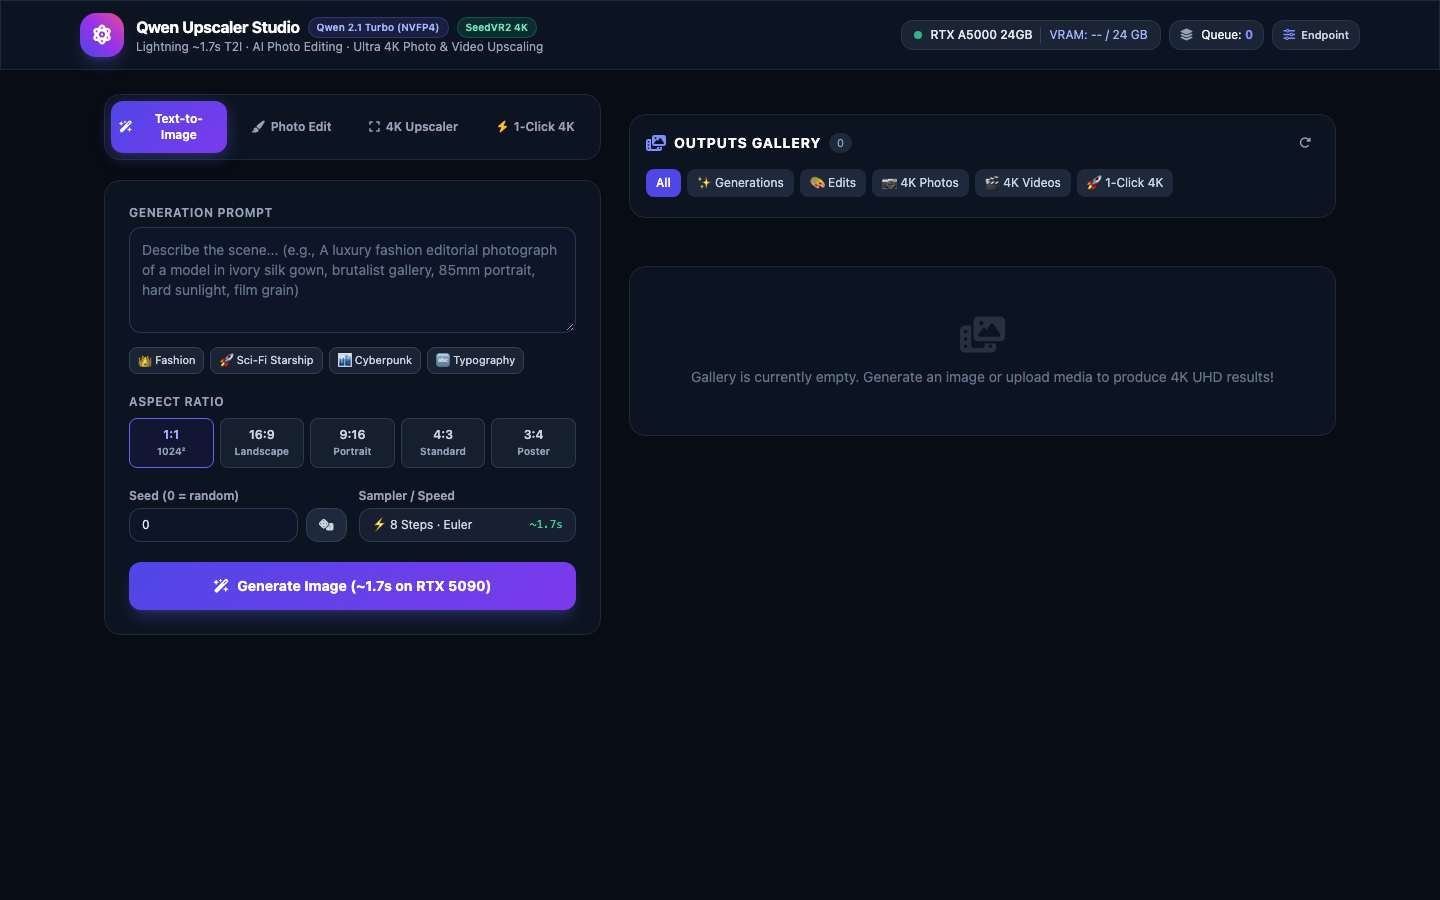
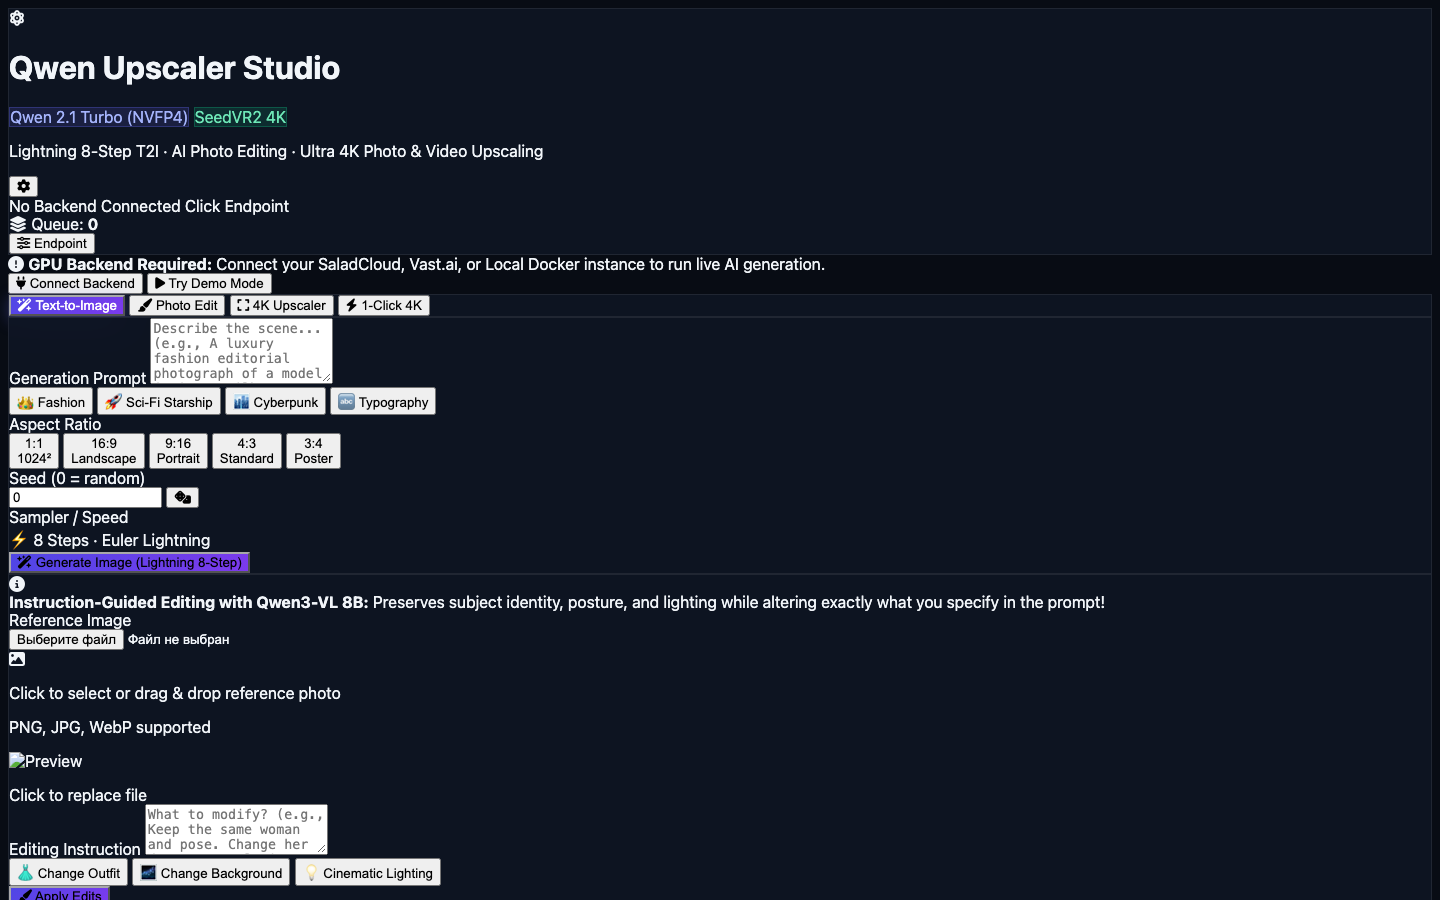
fix: update screenshots with full CSS styling, add demo mode and backend warning, remove 5090 hardcode

diff --git a/salad_app/static/index.html b/salad_app/static/index.html
@@ -42,7 +42,7 @@
               <span class="badge-qwen text-[10px] font-semibold px-2 py-0.5 rounded-full">Qwen 2.1 Turbo (NVFP4)</span>
               <span class="badge-seed text-[10px] font-semibold px-2 py-0.5 rounded-full">SeedVR2 4K</span>
             </div>
-            <p class="text-[11px] sm:text-xs text-slate-400">Lightning ~1.7s T2I · AI Photo Editing · Ultra 4K Photo & Video Upscaling</p>
+            <p class="text-[11px] sm:text-xs text-slate-400">Lightning 8-Step T2I · AI Photo Editing · Ultra 4K Photo & Video Upscaling</p>
           </div>
         </div>
 
@@ -55,9 +55,9 @@
       <!-- GPU Telemetry & Backend Switcher -->
       <div class="flex items-center justify-between sm:justify-end gap-2 text-xs">
         <div id="gpuBadge" class="flex items-center gap-2 bg-slate-800/80 px-3 py-1.5 rounded-xl border border-slate-700/60">
-          <span class="w-2 h-2 rounded-full bg-emerald-400 animate-pulse"></span>
-          <span id="gpuName" class="font-medium text-slate-200">RTX A5000 24GB</span>
-          <span id="gpuVram" class="text-indigo-300 border-l border-slate-700 pl-2">VRAM: -- / 24 GB</span>
+          <span id="gpuStatusDot" class="w-2 h-2 rounded-full bg-amber-400 animate-pulse"></span>
+          <span id="gpuName" class="font-medium text-slate-300">Checking Endpoint...</span>
+          <span id="gpuVram" class="text-indigo-300 border-l border-slate-700 pl-2">VRAM: --</span>
         </div>
         <div class="flex items-center gap-2 bg-slate-800/80 px-2.5 py-1.5 rounded-xl border border-slate-700/60">
           <i class="fa-solid fa-layer-group text-slate-400"></i>
@@ -72,6 +72,24 @@
 
     </div>
   </header>
+
+  <!-- Notice Banner When No GPU Backend Connected -->
+  <div id="backendBanner" class="hidden bg-indigo-950/80 border-b border-indigo-500/30 px-4 py-2.5 text-xs text-indigo-200">
+    <div class="max-w-7xl mx-auto flex flex-col sm:flex-row items-center justify-between gap-2.5">
+      <div class="flex items-center gap-2 text-center sm:text-left">
+        <i class="fa-solid fa-circle-exclamation text-amber-400 text-sm"></i>
+        <span><strong>GPU Backend Required:</strong> Connect your SaladCloud, Vast.ai, or Local Docker instance to run live AI generation.</span>
+      </div>
+      <div class="flex items-center gap-2 flex-shrink-0">
+        <button onclick="openSettingsModal('Connect your SaladCloud, Vast.ai, or Local Docker endpoint to enable GPU generation.')" class="px-3 py-1.5 bg-indigo-600 hover:bg-indigo-500 text-white rounded-lg font-semibold text-xs transition flex items-center gap-1.5">
+          <i class="fa-solid fa-plug text-[11px]"></i> Connect Backend
+        </button>
+        <button onclick="enableDemoMode()" class="px-3 py-1.5 bg-slate-800 hover:bg-slate-700 text-slate-300 rounded-lg text-xs transition flex items-center gap-1.5" title="Preview UI with mock sample outputs">
+          <i class="fa-solid fa-play text-amber-400 text-[11px]"></i> Try Demo Mode
+        </button>
+      </div>
+    </div>
+  </div>
 
   <!-- Main Workspace -->
   <main class="flex-1 max-w-7xl w-full mx-auto p-4 sm:p-6 grid grid-cols-1 lg:grid-cols-12 gap-5 sm:gap-7">
@@ -151,14 +169,14 @@
             <label class="block text-xs font-semibold text-slate-400 mb-1">Sampler / Speed</label>
             <div class="text-xs bg-slate-800/60 border border-slate-700/80 rounded-xl px-3 py-2 text-slate-300 flex items-center justify-between">
               <span>⚡ 8 Steps · Euler</span>
-              <span class="text-emerald-400 font-mono text-[11px]">~1.7s</span>
+              <span class="text-emerald-400 font-mono text-[11px]">Lightning</span>
             </div>
           </div>
         </div>
 
         <button id="btnSubmitGen" onclick="submitGenerate()" class="w-full py-3.5 rounded-xl text-sm font-bold text-white btn-gradient shadow-lg shadow-indigo-500/25 hover:shadow-indigo-500/40 transition flex items-center justify-center gap-2">
           <i class="fa-solid fa-wand-magic-sparkles"></i>
-          <span>Generate Image (~1.7s on RTX 5090)</span>
+          <span>Generate Image (Lightning 8-Step)</span>
         </button>
       </div>
 
@@ -269,7 +287,7 @@
         <div class="p-3 bg-gradient-to-r from-indigo-950/40 to-purple-950/40 border border-indigo-500/30 rounded-xl text-xs text-indigo-200 flex items-start gap-2.5">
           <i class="fa-solid fa-bolt text-indigo-400 mt-0.5"></i>
           <div>
-            <strong>1-Click Ultra Pipeline:</strong> Qwen Turbo generates composition in ~1.7s, followed by SeedVR2 neural super-resolution bringing textures, skin pores, and details to cinema 4K!
+            <strong>1-Click Ultra Pipeline:</strong> Qwen Turbo generates composition in 8 lightning steps, followed by SeedVR2 neural super-resolution bringing textures, skin pores, and micro-details to cinema 4K!
           </div>
         </div>
 
@@ -400,18 +418,29 @@
       <div class="flex items-center justify-between border-b border-slate-800 pb-3">
         <div class="flex items-center gap-2">
           <i class="fa-solid fa-sliders text-indigo-400"></i>
-          <h3 class="text-sm font-bold text-white">Backend Connection</h3>
+          <h3 class="text-sm font-bold text-white">GPU Backend Connection</h3>
         </div>
         <button onclick="closeSettingsModal()" class="text-slate-400 hover:text-white text-lg">
           <i class="fa-solid fa-xmark"></i>
         </button>
       </div>
 
+      <!-- Notice Alert -->
+      <div id="modalNotice" class="hidden p-3 bg-indigo-950/60 border border-indigo-500/40 rounded-xl text-xs text-indigo-200 flex items-start gap-2">
+        <i class="fa-solid fa-circle-info text-indigo-400 mt-0.5"></i>
+        <span id="modalNoticeText">Connect your running GPU backend to start generating.</span>
+      </div>
+
       <div class="space-y-3 text-xs">
         <div>
           <label class="block font-semibold text-slate-300 mb-1">API Base URL</label>
           <input type="text" id="apiEndpointInput" placeholder="e.g., https://your-salad-node.salad.cloud or http://localhost:8000" class="w-full bg-slate-900 border border-slate-700 rounded-xl p-2.5 text-slate-200 focus:outline-none focus:border-indigo-500">
-          <p class="text-[10px] text-slate-500 mt-1">Leave empty to use the current host origin (default for self-hosted container).</p>
+          <p class="text-[10px] text-slate-500 mt-1">Leave empty to use current origin (for self-hosted Docker).</p>
+        </div>
+
+        <div class="flex flex-wrap gap-1.5">
+          <button type="button" onclick="document.getElementById('apiEndpointInput').value='http://localhost:8000'; testConnectionStatus();" class="text-[11px] bg-slate-800/80 hover:bg-slate-700 text-slate-300 px-2 py-1 rounded-lg border border-slate-700">💻 Local: localhost:8000</button>
+          <button type="button" onclick="document.getElementById('apiEndpointInput').value=''; testConnectionStatus();" class="text-[11px] bg-slate-800/80 hover:bg-slate-700 text-slate-300 px-2 py-1 rounded-lg border border-slate-700">🌐 Same Origin</button>
         </div>
 
         <div class="p-3 bg-slate-900/60 border border-slate-800 rounded-xl flex items-center justify-between">
@@ -448,8 +477,15 @@
       return base ? `${base}${cleanPath}` : cleanPath;
     }
 
-    function openSettingsModal() {
+    function openSettingsModal(customNotice) {
       document.getElementById('apiEndpointInput').value = getApiBase();
+      const noticeEl = document.getElementById('modalNotice');
+      if (customNotice) {
+        document.getElementById('modalNoticeText').innerText = customNotice;
+        noticeEl.classList.remove('hidden');
+      } else {
+        noticeEl.classList.add('hidden');
+      }
       testConnectionStatus();
       document.getElementById('settingsModal').classList.remove('hidden');
     }
@@ -498,6 +534,8 @@
     // -------------------------------------------------------------------------
     // State
     // -------------------------------------------------------------------------
+    let backendConnected = false;
+    let isDemoMode = false;
     let currentMainTab = 'gen';
     let currentGenWidth = 1024, currentGenHeight = 1024;
     let currentComboWidth = 1024, currentComboHeight = 1024;
@@ -509,6 +547,62 @@
     let activeJobId = null;
     let timerInterval = null;
     let startTime = 0;
+
+    function enableDemoMode() {
+      isDemoMode = true;
+      document.getElementById('backendBanner').classList.add('hidden');
+      document.getElementById('gpuStatusDot').className = 'w-2 h-2 rounded-full bg-amber-400';
+      document.getElementById('gpuName').innerText = 'Interactive Demo Mode';
+      document.getElementById('gpuVram').innerText = 'Simulated VRAM';
+      
+      galleryItems = [
+        {
+          job_id: 'demo_starship',
+          filename: 'engineer_starship_4k.jpg',
+          url: 'https://raw.githubusercontent.com/s3rfdev/qwen_upscaler/main/docs/screenshots/sample_qwen_turbo_render.jpg',
+          type: 'generate',
+          media_type: 'image',
+          prompt: 'Biomechanical alien starship entering Earth orbit, photorealistic planetary curvature, soft atmospheric rim lighting',
+          duration: 2.1,
+          size_mb: '1.4'
+        }
+      ];
+      renderGallery(galleryItems);
+    }
+
+    function runDemoJob(title) {
+      startJobUI(title);
+      let pct = 20;
+      const stepMessages = ['Loading weights...', 'Running 8-step lightning diffusion...', 'Decoding VAE latents...', 'Enhancing micro-details...'];
+      let stepIdx = 0;
+      const demoInterval = setInterval(() => {
+        pct += 25;
+        if (pct > 100) pct = 100;
+        document.getElementById('activeJobBar').style.width = pct + '%';
+        document.getElementById('activeJobPct').innerText = pct + '%';
+        if (stepIdx < stepMessages.length) {
+          document.getElementById('activeJobStep').innerText = stepMessages[stepIdx++];
+        }
+        if (pct >= 100) {
+          clearInterval(demoInterval);
+          setTimeout(() => {
+            stopJobUI();
+            const promptVal = document.getElementById('genPrompt').value || document.getElementById('comboPrompt').value || 'Demo generated output';
+            galleryItems.unshift({
+              job_id: 'demo_' + Date.now(),
+              filename: 'demo_output_' + Date.now() + '.jpg',
+              url: 'https://raw.githubusercontent.com/s3rfdev/qwen_upscaler/main/docs/screenshots/sample_qwen_turbo_render.jpg',
+              type: currentMainTab === 'upscale' ? 'upscale_photo' : (currentMainTab === 'combo' ? 'combo' : (currentMainTab === 'edit' ? 'edit' : 'generate')),
+              media_type: 'image',
+              prompt: promptVal,
+              duration: 1.9,
+              size_mb: '1.1'
+            });
+            renderGallery(galleryItems);
+          }, 600);
+        }
+      }, 500);
+    }
 
     // -------------------------------------------------------------------------
     // Main Tab Switching
@@ -641,15 +735,24 @@
     async function submitGenerate() {
       const prompt = document.getElementById('genPrompt').value.trim();
       if (!prompt) return alert('Please enter a generation prompt!');
-      const seed = parseInt(document.getElementById('genSeed').value) || 0;
 
+      if (!backendConnected) {
+        if (isDemoMode) {
+          runDemoJob('Simulating 8-Step Generation...');
+          return;
+        }
+        openSettingsModal('GPU Backend Required: Please connect your running SaladCloud, Vast.ai, or Local Docker instance to generate images.');
+        return;
+      }
+
+      const seed = parseInt(document.getElementById('genSeed').value) || 0;
       const fd = new FormData();
       fd.append('prompt', prompt);
       fd.append('width', currentGenWidth);
       fd.append('height', currentGenHeight);
       fd.append('seed', seed);
 
-      startJobUI('Generating with Qwen Turbo (~1.7s)');
+      startJobUI('Generating with Qwen Turbo');
       try {
         const res = await fetch(apiUrl('/api/generate'), { method: 'POST', body: fd });
         if (!res.ok) throw new Error('HTTP ' + res.status);
@@ -662,9 +765,18 @@
     }
 
     async function submitEdit() {
-      if (!editFile) return alert('Please upload a reference image to edit!');
+      if (!editFile && !isDemoMode) return alert('Please upload a reference image to edit!');
       const prompt = document.getElementById('editPrompt').value.trim();
-      if (!prompt) return alert('Please specify what to edit in the prompt!');
+      if (!prompt && !isDemoMode) return alert('Please specify what to edit in the prompt!');
+
+      if (!backendConnected) {
+        if (isDemoMode) {
+          runDemoJob('Simulating Instruction Edit (Qwen3-VL)...');
+          return;
+        }
+        openSettingsModal('GPU Backend Required: Please connect your running backend to edit images.');
+        return;
+      }
 
       const fd = new FormData();
       fd.append('file', editFile);
@@ -683,7 +795,17 @@
     }
 
     async function submitUpscale() {
-      if (!upscaleFile) return alert('Please select a file to upscale!');
+      if (!upscaleFile && !isDemoMode) return alert('Please select a file to upscale!');
+
+      if (!backendConnected) {
+        if (isDemoMode) {
+          runDemoJob(`Simulating SeedVR2 Upscale (${currentUpscaleRes}p)...`);
+          return;
+        }
+        openSettingsModal('GPU Backend Required: Please connect your running backend for 4K super-resolution.');
+        return;
+      }
+
       const fd = new FormData();
       fd.append('file', upscaleFile);
       fd.append('media_type', currentUpscaleMediaType);
@@ -703,7 +825,16 @@
 
     async function submitCombo() {
       const prompt = document.getElementById('comboPrompt').value.trim();
-      if (!prompt) return alert('Please enter a prompt for 1-Click 4K Combo!');
+      if (!prompt && !isDemoMode) return alert('Please enter a prompt for 1-Click 4K Combo!');
+
+      if (!backendConnected) {
+        if (isDemoMode) {
+          runDemoJob('Simulating 1-Click 4K Combo Pipeline...');
+          return;
+        }
+        openSettingsModal('GPU Backend Required: Please connect your running backend for 1-Click 4K generation.');
+        return;
+      }
 
       const fd = new FormData();
       fd.append('prompt', prompt);
@@ -782,14 +913,25 @@
     async function updateStats() {
       try {
         const res = await fetch(apiUrl('/api/stats'));
-        if (!res.ok) return;
+        if (!res.ok) throw new Error('HTTP ' + res.status);
         const data = await res.json();
+        backendConnected = true;
+        document.getElementById('backendBanner').classList.add('hidden');
         if (data.gpu) {
+          document.getElementById('gpuStatusDot').className = 'w-2 h-2 rounded-full bg-emerald-400 animate-pulse';
           document.getElementById('gpuName').innerText = data.gpu.name || 'Cloud GPU';
           document.getElementById('gpuVram').innerText = `VRAM: ${data.gpu.free_gb} / ${data.gpu.total_gb} GB`;
         }
         document.getElementById('queueCount').innerText = data.queue_count || 0;
-      } catch (e) {}
+      } catch (e) {
+        if (!isDemoMode) {
+          backendConnected = false;
+          document.getElementById('backendBanner').classList.remove('hidden');
+          document.getElementById('gpuStatusDot').className = 'w-2 h-2 rounded-full bg-rose-400';
+          document.getElementById('gpuName').innerText = 'No Backend Connected';
+          document.getElementById('gpuVram').innerText = 'Click Endpoint';
+        }
+      }
     }
 
     // -------------------------------------------------------------------------

diff --git a/README.md b/README.md
@@ -30,7 +30,7 @@
 
 **Qwen Upscaler Studio** is an all-in-one open-source production stack that unifies state-of-the-art vision and diffusion models into an optimized containerized workflow:
 
-1. **Qwen 2.1 Turbo (NVFP4 Quantization)**: Distilled 8-step lightning text-to-image generator producing photorealistic anatomical accuracy, complex lighting, and typography in **~1.7 seconds** on modern hardware.
+1. **Qwen 2.1 Turbo (NVFP4 Quantization)**: Distilled 8-step lightning text-to-image generator producing photorealistic anatomical accuracy, complex lighting, and typography in just seconds on any modern GPU.
 2. **Qwen3-VL 8B Reference Conditioning**: Multimodal instruction-guided image editing. Modify clothing, backgrounds, or cinematic lighting while strictly preserving subject facial identity, pose, and physical proportions.
 3. **SeedVR2 (EMA 3B FP8)**: State-of-the-art temporal diffusion super-resolution model for upscaling photography and video up to **4K UHD (2160p 60fps)** with perceptual reconstruction and color matching.
 4. **1-Click 4K Combo Pipeline**: Generate a fresh concept with Qwen Turbo and upscale it directly into fine 4K micro-textures through an automated orchestration pipeline with intelligent VRAM offloading.
@@ -39,7 +39,7 @@
 
 ## ✨ Key Features
 
-- **⚡ Instant 8-Step Synthesis**: Photorealistic generation in ~1.7s (RTX 5090) or ~3.2s (RTX A5000), saving up to 90% in cloud GPU compute costs compared to traditional 30-50 step diffusion models.
+- **⚡ Instant 8-Step Synthesis**: Photorealistic generation in 8 distilled steps, saving up to 90% in cloud GPU compute costs compared to traditional 30-50 step diffusion models across any modern NVIDIA GPU.
 - **🔍 4K Photo & Video Super-Resolution**: Upscale static imagery or 60fps videos using temporal window tiling, FP8 attention, and customized FFmpeg NVENC acceleration.
 - **🔄 Zero-OOM VRAM Orchestrator**: Runs both ComfyUI diffusion graphs and SeedVR2 super-resolution inside a single 24GB VRAM envelope via dynamic memory flushing (`free_comfyui_memory()` + PyTorch CUDA cache clearing).
 - **📱 Fully Responsive Modern UI**: Built with Tailwind CSS, dark glassmorphism, prompt presets, seed controls, real-time GPU telemetry, and an outputs gallery. Adapts seamlessly to mobile viewports.
@@ -162,14 +162,16 @@ docker run --gpus all \
 
 ---
 
-### Option D: Hugging Face Space Connection
+### Option D: Hugging Face Space Connection (Web Client)
 
-A lightweight, static web client is deployed at [huggingface.co/spaces/s3rfdev/qwen_upscaler](https://huggingface.co/spaces/s3rfdev/qwen_upscaler).
+A live web client is hosted at [huggingface.co/spaces/s3rfdev/qwen_upscaler](https://huggingface.co/spaces/s3rfdev/qwen_upscaler).
 
-1. Open the Hugging Face Space.
-2. Click the **Endpoint / Settings** button in the header.
-3. Enter the public URL of your SaladCloud or Vast.ai instance (e.g. `https://your-node.salad.cloud`).
-4. Generate images and 4K videos directly through the Hugging Face Space!
+> [!NOTE]
+> **Why the Space requires a GPU backend:**
+> Generating 4K imagery and neural super-resolution requires a 24GB+ GPU. To keep public hosting 100% free without incurring Hugging Face's expensive $1.05/hr GPU billing, this Space operates as a decoupled frontend client.
+>
+> 1. **Interactive Demo Mode:** Click **Try Demo Mode** in the header banner to explore the interface, inspect gallery outputs, and simulate generations.
+> 2. **Live GPU Generation:** Click **Endpoint** in the header, paste your deployed SaladCloud, Vast.ai, or Local Docker address (e.g. `https://your-node.salad.net`), and start generating instantly.
 
 ---
 

diff --git a/docs/hf_space_readme.md b/docs/hf_space_readme.md
@@ -6,7 +6,7 @@ colorTo: purple
 sdk: static
 pinned: false
 license: apache-2.0
-short_description: Lightning ~1.7s Qwen Turbo T2I & SeedVR2 4K Super-Resolution
+short_description: Qwen 2.1 Turbo T2I & SeedVR2 4K Super-Resolution
 ---
 
 # ⚡ Qwen 2.1 Turbo + SeedVR2 4K Studio
@@ -14,31 +14,28 @@ short_description: Lightning ~1.7s Qwen Turbo T2I & SeedVR2 4K Super-Resolution
 Welcome to the **Qwen Upscaler Studio** Hugging Face Space!
 
 This interface is a high-performance web studio connecting to modern open-source vision and super-resolution models:
-* **Qwen 2.1 Turbo (NVFP4)**: 8-step lightning text-to-image synthesis (~1.7s inference on RTX 5090 / ~3.2s on RTX A5000).
+* **Qwen 2.1 Turbo (NVFP4)**: 8-step lightning text-to-image synthesis in just seconds on any modern NVIDIA GPU.
 * **Qwen3-VL 8B**: Precision instruction-guided photo editing preserving subject identity, composition, and physical lighting.
 * **SeedVR2 (EMA 3B FP8)**: Next-generation neural super-resolution for upscaling photos and videos to **4K UHD (2160p 60fps)**.
 * **1-Click 4K Combo Pipeline**: Composition generated instantly with Qwen Turbo and upscaled into cinema 4K with SeedVR2 in a single automated step.
 
 ---
 
-## 🚀 How to Connect to GPU Backend
+## 🎮 Interactive Demo Mode vs Live GPU Mode
 
-Because generating 4K images and videos requires 24GB+ VRAM, this web client connects dynamically to your own dedicated GPU backend:
+Because generating 4K images and videos requires **24GB+ VRAM**, this public Space runs as a decoupled frontend:
 
-1. Deploy the pre-built Docker container on your GPU of choice:
-   * **SaladCloud** (~$0.18/hr for RTX A5000 / RTX 3090 Ti):
+1. **Try Demo Mode:** Click **Try Demo Mode** in the top banner to test the UI, inspect sample 4K renders, and explore the studio features without a backend.
+2. **Live Generation with Your GPU:**
+   - Deploy your dedicated backend container on **SaladCloud** (~$0.18/hr for RTX A5000 / 3090 Ti):
      ```bash
      python ctl.py salad up --gpu rtx_a5000
      ```
-   * **Local Docker (NVIDIA GPU)**:
+   - Or run locally:
      ```bash
      docker run --gpus all -p 8000:8000 s3rfdev/qwen-turbo-upscaler:latest
      ```
-   * **Vast.ai**: See [GitHub Deployment Guide](https://github.com/s3rfdev/qwen_upscaler#vastai-deployment).
-
-2. Click the **Endpoint / Settings** button (top right of this interface) and enter your backend URL (e.g. `https://your-salad-node.salad.cloud` or `http://localhost:8000`).
-
-3. Start creating instantly!
+   - Click the **Endpoint** button in the header and paste your URL (e.g. `https://your-node.salad.net` or `http://localhost:8000`).
 
 ---
 
